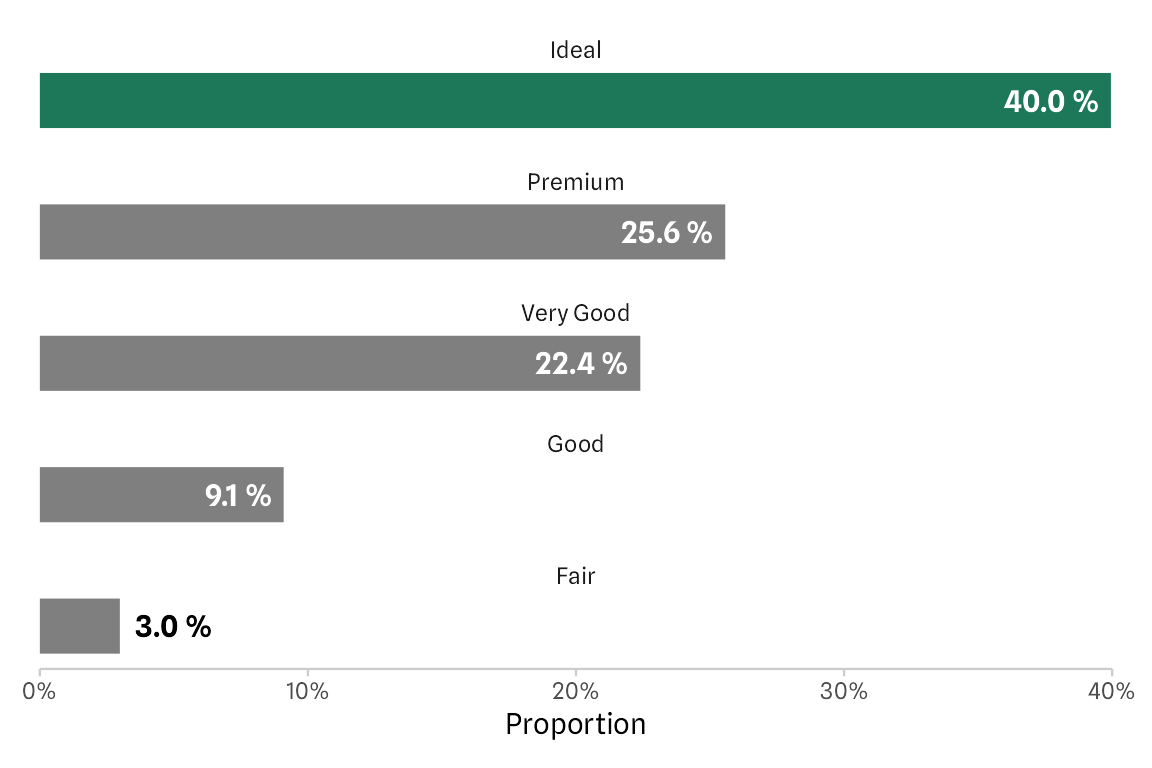
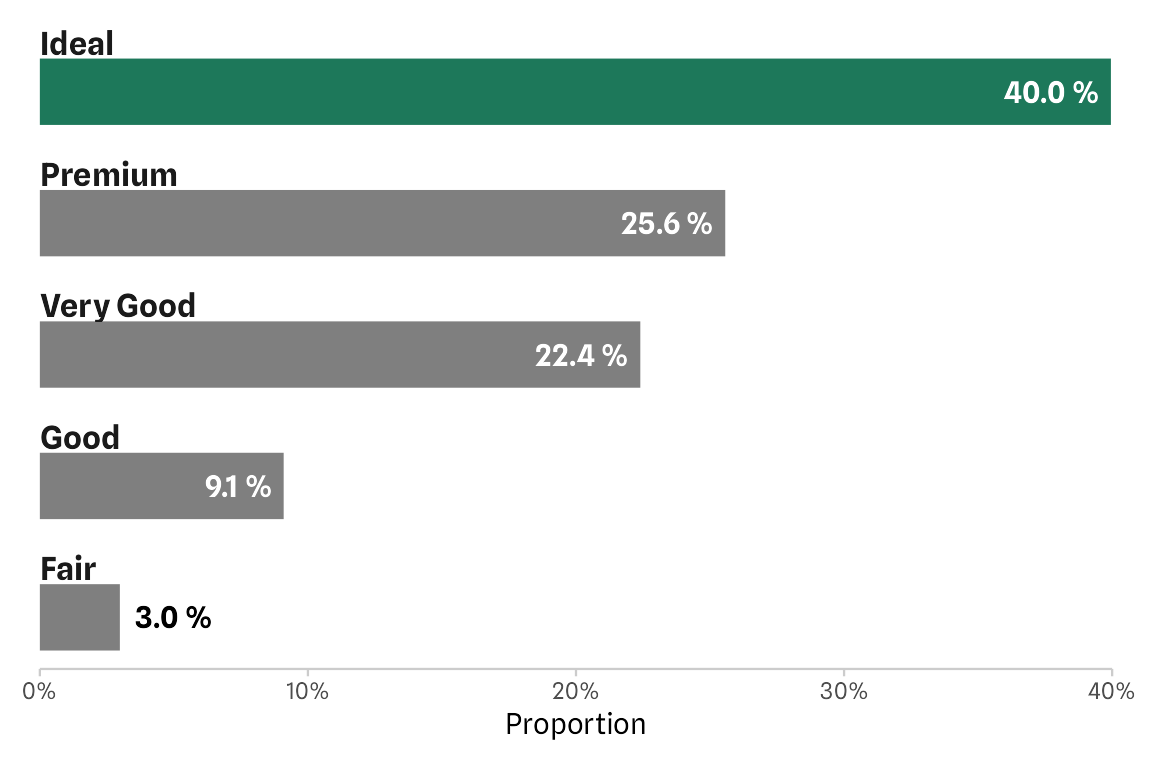
fix position strip.text

diff --git a/content/post/2023-10-26-how-to-label-bar-graphs-in-ggplot2-yet-again.html b/content/post/2023-10-26-how-to-label-bar-graphs-in-ggplot2-yet-again.html
@@ -62,7 +62,7 @@ diamonds |&gt;
 ## 4 Very Good 0.224 
 ## 5 Fair      0.0298</code></pre>
 <p>There are multiple other ways to calculate the shares, including <code>diamonds |&gt; mutate(n = n()) |&gt; summarize(prop = n() / unique(n), .by = cut)</code>. Instead of using the experimental <code>.by</code> argument you can also group your data first with <code>group_by(cut)</code> before summarizing per cut quality.</p>
-<p>The last step is not needed in our case as the ranking by shares follows the defined order of the cut qualities. However, in most other cases you likely have to sort your categories on your own.</p>
+<p>The last step is not needed in our example case here as the ranking by shares follows the defined order of the cut qualities. However, in most other cases you likely have to sort your categories on your own.</p>
 </div>
 <div id="basic-bars" class="section level2">
 <h2>Create a Basic Bar Chart</h2>
@@ -79,7 +79,10 @@ The default horizontal bar chart, ranked by shares.
 <p>Alternatively, you can transform the complete data set on the fly instead of calculating shares first:</p>
 <pre class="r"><code>ggplot(diamonds, aes(y = cut, x = after_stat(count / sum(count)))) +
   geom_bar()</code></pre>
-<p><img src="/post/2023-10-26-how-to-label-bar-graphs-in-ggplot2-yet-again_files/figure-html/unnamed-chunk-3-1.png" width="576" /></p>
+<img src="/post/2023-10-26-how-to-label-bar-graphs-in-ggplot2-yet-again_files/figure-html/unnamed-chunk-3-1.png" width="576" />
+<figcaption>
+The same default horizontal bar chart, this time created with <code>geom_bar()</code> and <code>after_stat()</code>.
+</figcaption>
 </div>
 <div id="theming" class="section level2">
 <h2>Style the Visualization</h2>
@@ -189,7 +192,11 @@ The final version with polished category labels by adjusting the strip text of t
     name = &quot;Proportion&quot;
   ) +
   scale_y_discrete(guide = &quot;none&quot;, expand = expansion(add = c(.7, .45))) +
-  scale_fill_manual(values = c(&quot;grey50&quot;, &quot;#1D785A&quot;), guide = &quot;none&quot;)
+  scale_fill_manual(values = c(&quot;grey50&quot;, &quot;#1D785A&quot;), guide = &quot;none&quot;) +
+  theme(strip.text = element_text(
+    hjust = 0, size = rel(1.1), 
+    face = &quot;bold&quot;, margin = margin(rep(0, 4))
+  ))
 
 p</code></pre>
 <img src="/post/2023-10-26-how-to-label-bar-graphs-in-ggplot2-yet-again_files/figure-html/unnamed-chunk-8-1.png" width="576" />
